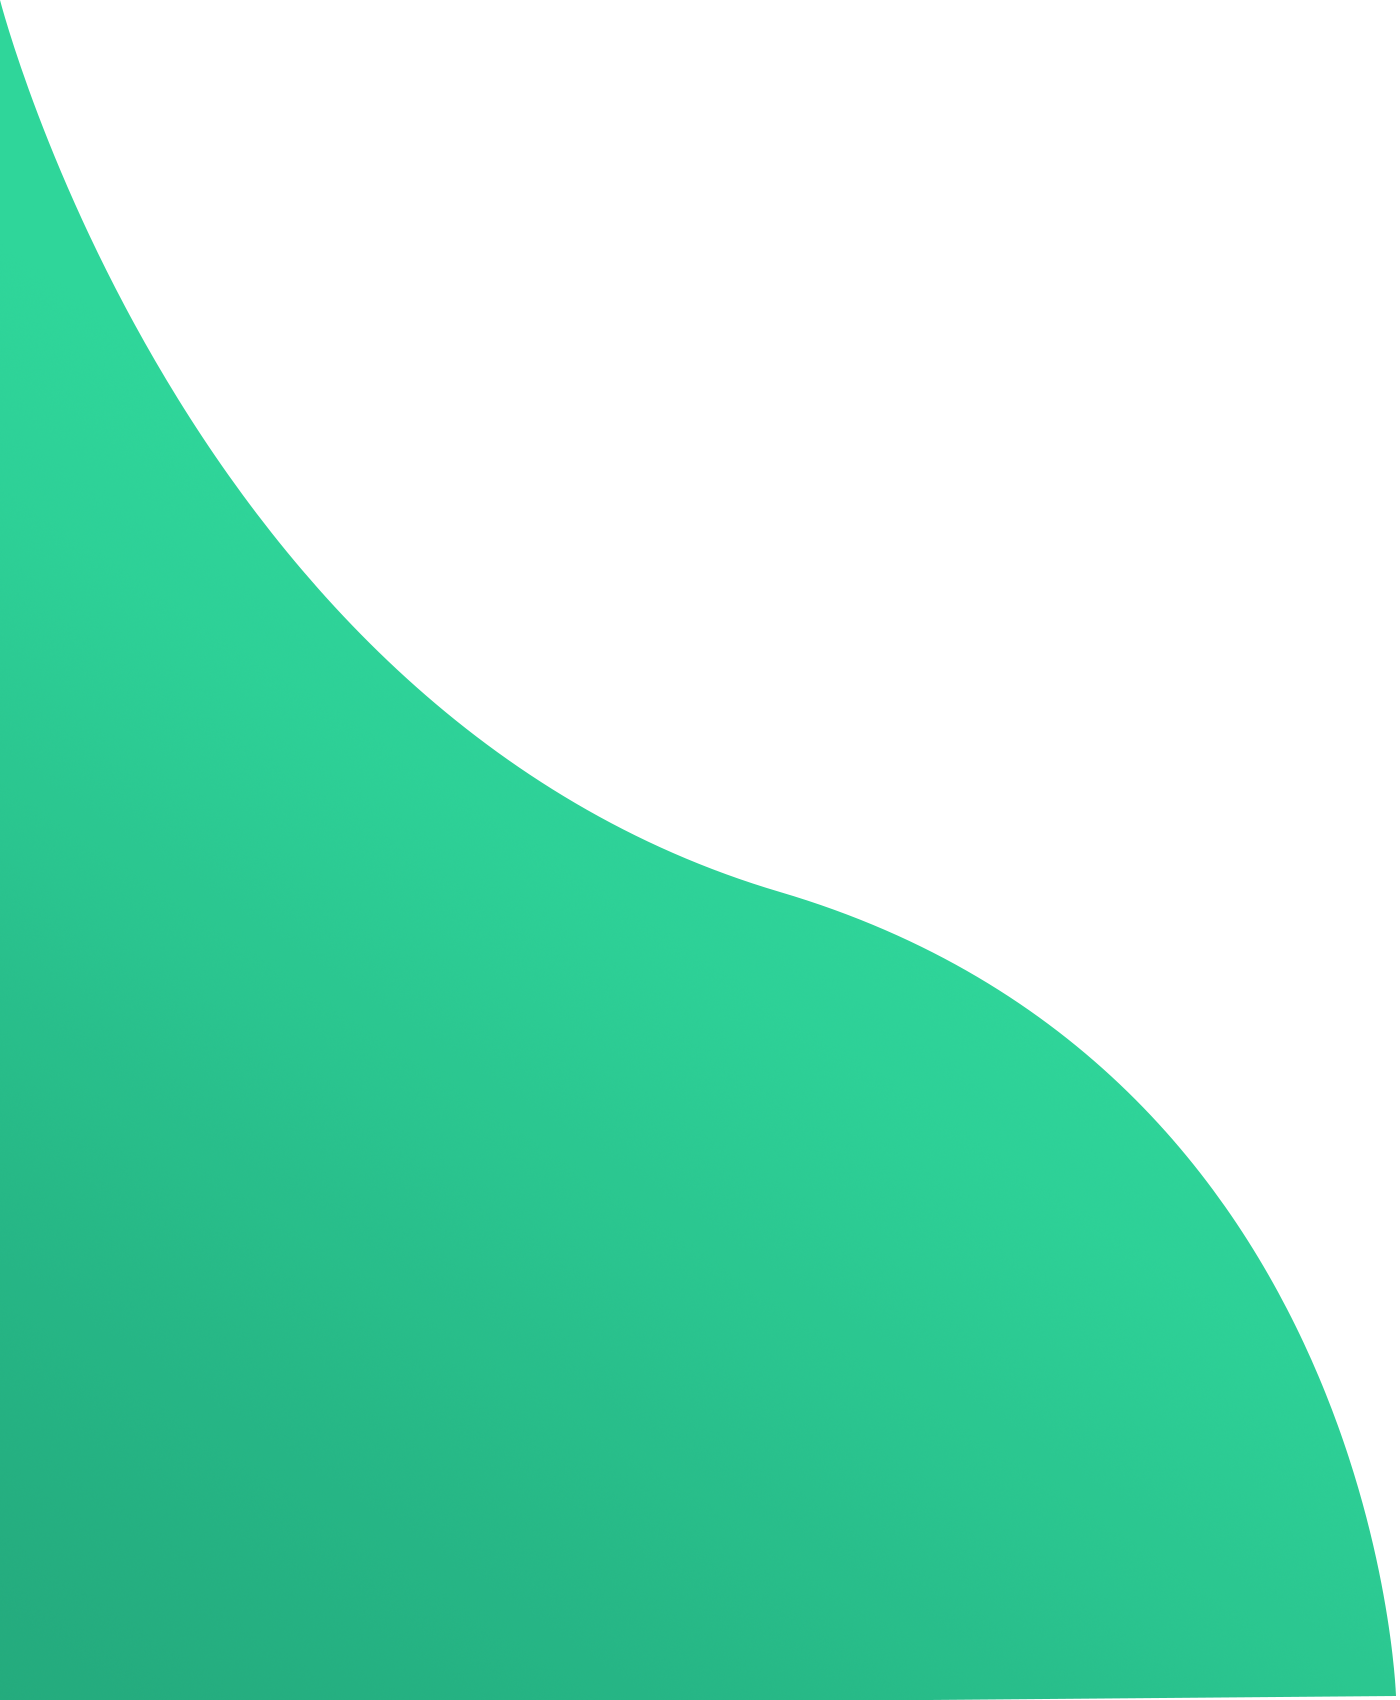
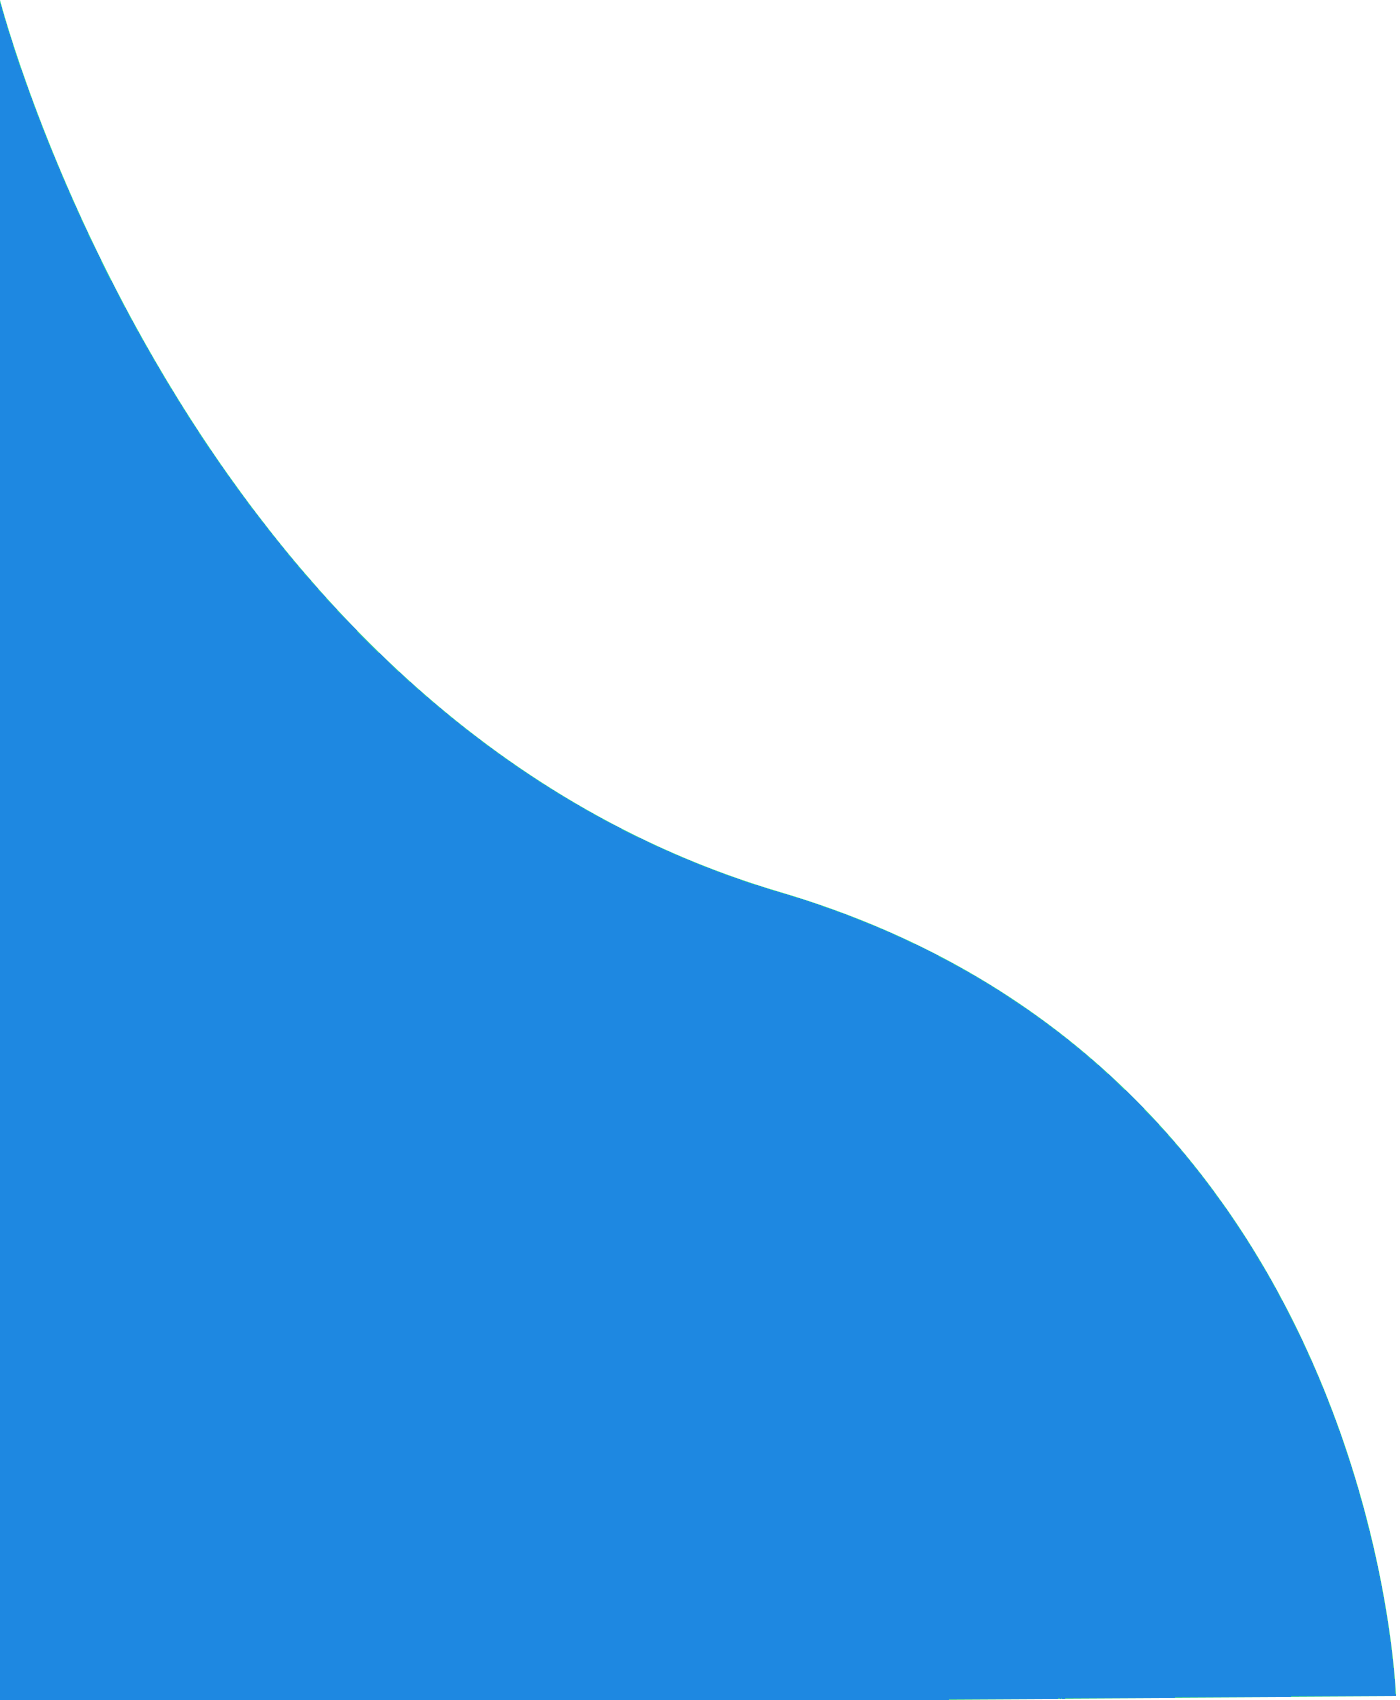
changing colors

diff --git a/css/style.css b/css/style.css
@@ -1,222 +1,223 @@
-*{
-	padding: 0;
-	margin: 0;
-	box-sizing: border-box;
+* {
+  padding: 0;
+  margin: 0;
+  box-sizing: border-box;
 }
 
-body{
-    font-family: 'Poppins', sans-serif;
-    overflow: hidden;
+body {
+  font-family: "Poppins", sans-serif;
+  overflow: hidden;
 }
 
-.wave{
-	position: fixed;
-	bottom: 0;
-	left: 0;
-	height: 100%;
-	z-index: -1;
+.wave {
+  position: fixed;
+  bottom: 0;
+  left: 0;
+  height: 100%;
+  z-index: -1;
 }
 
-.container{
-    width: 100vw;
-    height: 100vh;
-    display: grid;
-    grid-template-columns: repeat(2, 1fr);
-    grid-gap :7rem;
-    padding: 0 2rem;
+.container {
+  width: 100vw;
+  height: 100vh;
+  display: grid;
+  grid-template-columns: repeat(2, 1fr);
+  grid-gap: 7rem;
+  padding: 0 2rem;
 }
 
-.img{
-	display: flex;
-	justify-content: flex-end;
-	align-items: center;
+.img {
+  display: flex;
+  justify-content: flex-end;
+  align-items: center;
 }
 
-.login-content{
-	display: flex;
-	justify-content: flex-start;
-	align-items: center;
-	text-align: center;
+.login-content {
+  display: flex;
+  justify-content: flex-start;
+  align-items: center;
+  text-align: center;
 }
 
-.img img{
-	width: 500px;
+.img img {
+  width: 500px;
 }
 
-form{
-	width: 360px;
+form {
+  width: 360px;
 }
 
-.login-content img{
-    height: 100px;
+.login-content img {
+  height: 100px;
 }
 
-.login-content h2{
-	margin: 15px 0;
-	color: #333;
-	text-transform: uppercase;
-	font-size: 2.9rem;
+.login-content h2 {
+  margin: 15px 0;
+  color: #333;
+  text-transform: uppercase;
+  font-size: 2.9rem;
 }
 
-.login-content .input-div{
-	position: relative;
-    display: grid;
-    grid-template-columns: 7% 93%;
-    margin: 25px 0;
-    padding: 5px 0;
-    border-bottom: 2px solid #d9d9d9;
+.login-content .input-div {
+  position: relative;
+  display: grid;
+  grid-template-columns: 7% 93%;
+  margin: 25px 0;
+  padding: 5px 0;
+  border-bottom: 2px solid #d9d9d9;
 }
 
-.login-content .input-div.one{
-	margin-top: 0;
+.login-content .input-div.one {
+  margin-top: 0;
 }
 
-.i{
-	color: #d9d9d9;
-	display: flex;
-	justify-content: center;
-	align-items: center;
+.i {
+  color: #d9d9d9;
+  display: flex;
+  justify-content: center;
+  align-items: center;
 }
 
-.i i{
-	transition: .3s;
+.i i {
+  transition: 0.3s;
 }
 
-.input-div > div{
-    position: relative;
-	height: 45px;
+.input-div > div {
+  position: relative;
+  height: 45px;
 }
 
-.input-div > div > h5{
-	position: absolute;
-	left: 10px;
-	top: 50%;
-	transform: translateY(-50%);
-	color: #999;
-	font-size: 18px;
-	transition: .3s;
+.input-div > div > h5 {
+  position: absolute;
+  left: 10px;
+  top: 50%;
+  transform: translateY(-50%);
+  color: #999;
+  font-size: 18px;
+  transition: 0.3s;
 }
 
-.input-div:before, .input-div:after{
-	content: '';
-	position: absolute;
-	bottom: -2px;
-	width: 0%;
-	height: 2px;
-	background-color: #38d39f;
-	transition: .4s;
+.input-div:before,
+.input-div:after {
+  content: "";
+  position: absolute;
+  bottom: -2px;
+  width: 0%;
+  height: 2px;
+  background-color: #1e88e1;
+  transition: 0.4s;
 }
 
-.input-div:before{
-	right: 50%;
+.input-div:before {
+  right: 50%;
 }
 
-.input-div:after{
-	left: 50%;
+.input-div:after {
+  left: 50%;
 }
 
-.input-div.focus:before, .input-div.focus:after{
-	width: 50%;
+.input-div.focus:before,
+.input-div.focus:after {
+  width: 50%;
 }
 
-.input-div.focus > div > h5{
-	top: -5px;
-	font-size: 15px;
+.input-div.focus > div > h5 {
+  top: -5px;
+  font-size: 15px;
 }
 
-.input-div.focus > .i > i{
-	color: #38d39f;
+.input-div.focus > .i > i {
+  color: #1e88e1;
 }
 
-.input-div > div > input{
-	position: absolute;
-	left: 0;
-	top: 0;
-	width: 100%;
-	height: 100%;
-	border: none;
-	outline: none;
-	background: none;
-	padding: 0.5rem 0.7rem;
-	font-size: 1.2rem;
-	color: #555;
-	font-family: 'poppins', sans-serif;
+.input-div > div > input {
+  position: absolute;
+  left: 0;
+  top: 0;
+  width: 100%;
+  height: 100%;
+  border: none;
+  outline: none;
+  background: none;
+  padding: 0.5rem 0.7rem;
+  font-size: 1.2rem;
+  color: #555;
+  font-family: "poppins", sans-serif;
 }
 
-.input-div.pass{
-	margin-bottom: 4px;
+.input-div.pass {
+  margin-bottom: 4px;
 }
 
-a{
-	display: block;
-	text-align: right;
-	text-decoration: none;
-	color: #999;
-	font-size: 0.9rem;
-	transition: .3s;
+a {
+  display: block;
+  text-align: right;
+  text-decoration: none;
+  color: #999;
+  font-size: 0.9rem;
+  transition: 0.3s;
 }
 
-a:hover{
-	color: #38d39f;
+a:hover {
+  color: #1e88e1;
 }
 
-.btn{
-	display: block;
-	width: 100%;
-	height: 50px;
-	border-radius: 25px;
-	outline: none;
-	border: none;
-	background-image: linear-gradient(to right, #32be8f, #38d39f, #32be8f);
-	background-size: 200%;
-	font-size: 1.2rem;
-	color: #fff;
-	font-family: 'Poppins', sans-serif;
-	text-transform: uppercase;
-	margin: 1rem 0;
-	cursor: pointer;
-	transition: .5s;
+.btn {
+  display: block;
+  width: 100%;
+  height: 50px;
+  border-radius: 25px;
+  outline: none;
+  border: none;
+  background-image: linear-gradient(to right, #2678d9, #1e88e1, #2678d9);
+  background-size: 200%;
+  font-size: 1.2rem;
+  color: #fff;
+  font-family: "Poppins", sans-serif;
+  text-transform: uppercase;
+  margin: 2rem 0;
+  cursor: pointer;
+  transition: 0.5s;
 }
-.btn:hover{
-	background-position: right;
-}
-
-
-@media screen and (max-width: 1050px){
-	.container{
-		grid-gap: 5rem;
-	}
+.btn:hover {
+  background-position: right;
 }
 
-@media screen and (max-width: 1000px){
-	form{
-		width: 290px;
-	}
-
-	.login-content h2{
-        font-size: 2.4rem;
-        margin: 8px 0;
-	}
-
-	.img img{
-		width: 400px;
-	}
+@media screen and (max-width: 1050px) {
+  .container {
+    grid-gap: 5rem;
+  }
 }
 
-@media screen and (max-width: 900px){
-	.container{
-		grid-template-columns: 1fr;
-	}
+@media screen and (max-width: 1000px) {
+  form {
+    width: 290px;
+  }
 
-	.img{
-		display: none;
-	}
+  .login-content h2 {
+    font-size: 2.4rem;
+    margin: 8px 0;
+  }
 
-	.wave{
-		display: none;
-	}
+  .img img {
+    width: 400px;
+  }
+}
 
-	.login-content{
-		justify-content: center;
-	}
+@media screen and (max-width: 900px) {
+  .container {
+    grid-template-columns: 1fr;
+  }
+
+  .img {
+    display: none;
+  }
+
+  .wave {
+    display: none;
+  }
+
+  .login-content {
+    justify-content: center;
+  }
 }

diff --git a/index.html b/index.html
@@ -35,7 +35,6 @@
            		    	<input type="password" class="input">
             	   </div>
             	</div>
-            	<a href="#">Forgot Password?</a>
             	<input type="submit" class="btn" value="Login">
             </form>
         </div>
